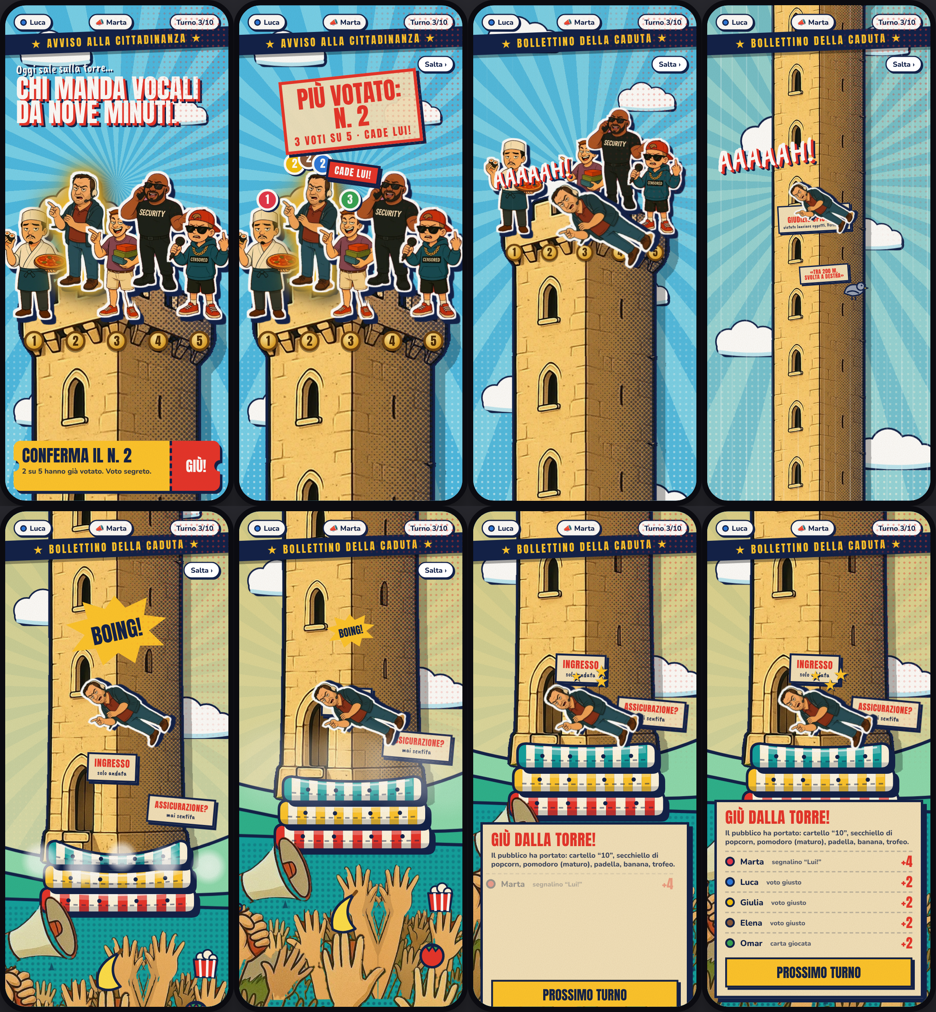
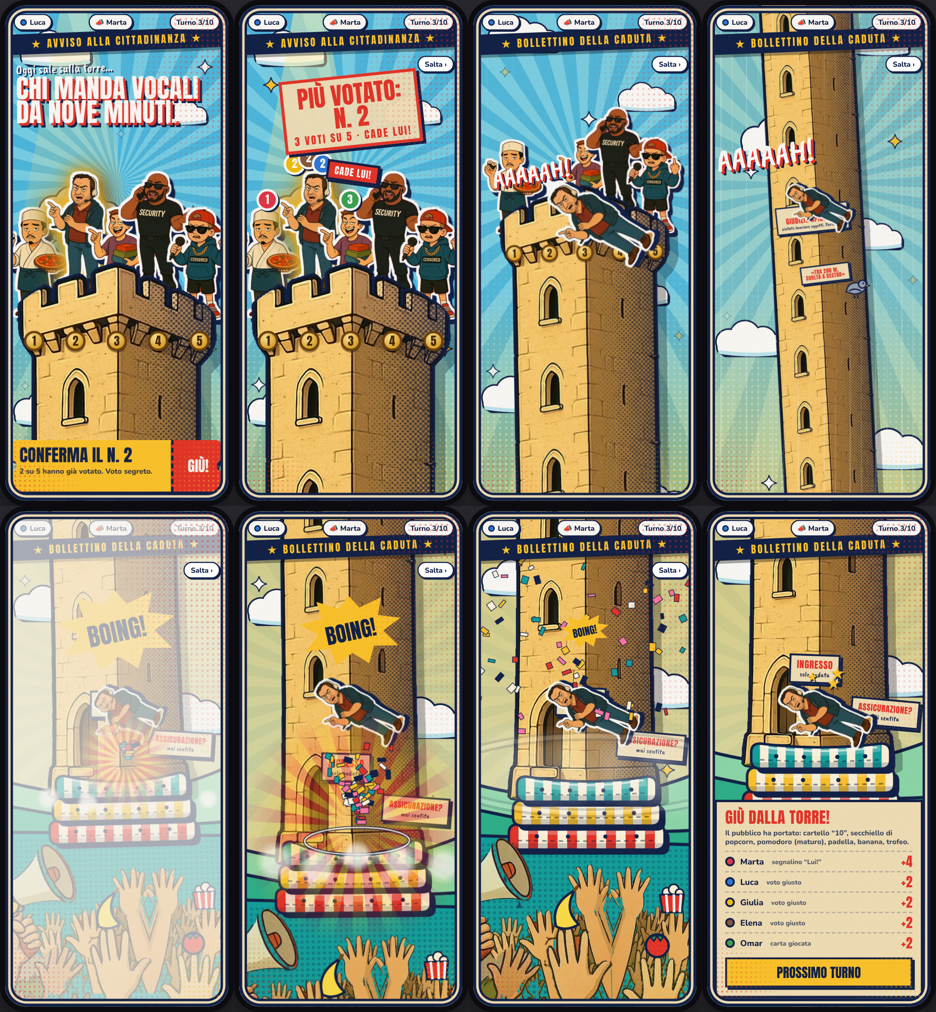
Caduta: personaggi dentro la cima, stile pop spettacolare (cornice, scintille, cono di luce, timbro, flash, esplosione, anelli, coriandoli, inclinazione)
Claude-Session: https://claude.ai/code/session_01RZhXLuhSivhirjYKeDZEsz

diff --git a/mockups/wow/dist/b4-artifact.html b/mockups/wow/dist/b4-artifact.html
@@ -9,6 +9,7 @@
 body{background:#2a2a30;min-height:100vh;display:flex;flex-wrap:wrap;gap:24px;justify-content:center;align-items:center;padding:20px max(16px,env(safe-area-inset-right,0px)) 20px max(16px,env(safe-area-inset-left,0px));font-family:Nunito,sans-serif;color:#fff}
 .phone{width:390px;height:844px;border-radius:44px;border:9px solid #0b0b10;position:relative;overflow:hidden;background:#5db4e6;box-shadow:0 30px 80px #000a;color:var(--navy);flex:none}
 .sky{position:absolute;inset:0;background:repeating-conic-gradient(from -4deg at 50% 36%,#79d3ee 0 6deg,#4fbce6 6deg 12deg)}
+.skyg{position:absolute;inset:0;background:linear-gradient(0deg,rgba(255,199,44,.5),transparent 42%)}
 .skyh{position:absolute;inset:0;background:radial-gradient(circle,#fff 0 26%,transparent 28%) 0 0/10px 10px;-webkit-mask-image:linear-gradient(0deg,#000,transparent 55%);mask-image:linear-gradient(0deg,#000,transparent 55%);opacity:.55}
 .sky2{position:absolute;inset:0;background:linear-gradient(180deg,#ffd36b,#ffe9a8);opacity:0}
 .far,.world{position:absolute;left:0;top:0;will-change:transform;transform-origin:0 0}
@@ -75,14 +76,31 @@ body{background:#2a2a30;min-height:100vh;display:flex;flex-wrap:wrap;gap:24px;ju
 .zoom .zb button{font:400 24px/1 Anton;text-transform:uppercase;padding:14px;border:3px solid var(--navy);box-shadow:4px 4px 0 var(--navy);cursor:pointer}
 .zoom .zb .ok{background:var(--mus);color:var(--navy)}.zoom .zb .no{background:#fff;color:var(--navy);font-size:18px;padding:10px}
 .panel .it{font:800 12px/1.3 Nunito;color:var(--navy);opacity:.8;margin:-2px 0 6px}
+
+.frame{position:absolute;inset:0;z-index:58;pointer-events:none;border-radius:35px;box-shadow:inset 0 0 0 5px #13224a,inset 0 0 0 9px #f4e3bd,inset 0 0 0 13px #13224a}
+.frame::before,.frame::after{content:"";position:absolute;width:120px;height:120px;background:radial-gradient(circle,#e8362b 0 26%,transparent 28%) 0 0/8px 8px;opacity:.7}
+.frame::before{left:13px;bottom:13px;-webkit-mask-image:radial-gradient(circle at 0 100%,#000,transparent 70%);mask-image:radial-gradient(circle at 0 100%,#000,transparent 70%)}
+.frame::after{right:13px;bottom:13px;background:radial-gradient(circle,#ffc72c 0 26%,transparent 28%) 0 0/8px 8px;-webkit-mask-image:radial-gradient(circle at 100% 100%,#000,transparent 70%);mask-image:radial-gradient(circle at 100% 100%,#000,transparent 70%)}
+.flash{position:absolute;inset:0;z-index:57;background:#fff;opacity:0;pointer-events:none}
+.ops{position:absolute;z-index:23;left:50%;width:200px;height:140px;margin-left:-100px;display:grid;place-items:center;opacity:0;font:400 40px/1 Anton;color:#fff;text-transform:uppercase;text-shadow:3px 3px 0 var(--red)}
+.ops::before{content:"";position:absolute;inset:0;background:var(--red);clip-path:polygon(50% 0,60% 18%,82% 6%,78% 30%,100% 36%,82% 52%,96% 74%,72% 72%,66% 96%,50% 80%,34% 96%,28% 72%,4% 74%,18% 52%,0 36%,22% 30%,18% 6%,40% 18%);filter:drop-shadow(5px 5px 0 var(--navy))}
+.ops span{position:relative;transform:rotate(6deg)}
+@keyframes pulse{0%,100%{transform:scale(1)}50%{transform:scale(1.035)}}
+@keyframes wob{0%,100%{transform:rotate(-.8deg)}50%{transform:rotate(.8deg)}}
+@keyframes tw{0%,100%{opacity:.25;transform:scale(.6)}50%{opacity:1;transform:scale(1.1)}}
+.ticket{animation:pulse 1.6s ease-in-out infinite}.hl{animation:wob 2.4s ease-in-out infinite}
+.sp{position:absolute;color:#fff;text-shadow:0 0 0 #13224a;font-size:20px;animation:tw 2.2s ease-in-out infinite}
+@media (prefers-reduced-motion:reduce){.ticket,.hl,.sp{animation:none}}
+.fx{pointer-events:none}
 </style>
 
 <div class="phone"><div id="vp" style="position:absolute;inset:0;overflow:hidden">
- <div class="sky"></div><div class="skyh"></div><div class="sky2" id="sky2"></div>
+ <div class="sky"></div><div class="skyg"></div><div class="skyh"></div><div class="sky2" id="sky2"></div>
  <div class="far" id="far"></div>
  <div class="world" id="world"></div>
  <div class="lines" id="lines"></div>
  <div class="hud">
+  <div class="frame"></div><div class="flash" id="flash"></div><div class="ops" id="ops"><span>Spinto!</span></div>
   <div class="zoom" id="zoom"><div class="zt">guardalo bene, poi decidi</div><div class="zc"><img id="zimg" alt=""><div class="zn" id="znum">2</div></div><div class="arr al" id="zl">‹</div><div class="arr ar" id="zr">›</div><div class="zb"><button class="ok" id="zok">Voto il n. 2</button><button class="no" id="zno">Torna sulla torre</button></div></div>
   <div class="top"><span><i style="background:#2f7be0"></i>Luca</span><span>📣 Marta</span><span>Turno 3/10</span></div>
   <div class="strip" id="strip">★ AVVISO ALLA CITTADINANZA ★</div>
@@ -123,7 +141,7 @@ land.innerHTML=`<defs><pattern id="ht" width="9" height="9" patternUnits="userSp
 ${Array.from({length:60},(_,i)=>`<path d="M${(i*23)%1400} ${320+(i*41)%340}l4 -13l4 13z" fill="#13224a" opacity=".6"/>`).join('')}`;
 W.appendChild(land);
 // ---- torre (regolamento, versione pop): i personaggi fanno capolino dietro i merli
-const TX=61,TY=420,PAD=8/1.5,TWW=391/1.5,THH=2506/1.5;
+const MT_=2034;const TX=61,TY=420,PAD=8/1.5,TWW=391/1.5,THH=2506/1.5;
 const tsh=document.createElement('img');tsh.src=window.IMGS.tower;tsh.style.cssText=`left:${TX-PAD+13}px;top:${TY-PAD+10}px;width:${TWW}px;height:${THH}px;z-index:3;pointer-events:none;filter:brightness(0) opacity(.28)`;W.appendChild(tsh);
 const tf=document.createElement('img');tf.src=window.IMGS.tower;tf.style.cssText=`left:${TX-PAD}px;top:${TY-PAD}px;width:${TWW}px;height:${THH}px;z-index:6;pointer-events:none`;W.appendChild(tf);
 add('Torre del<br>Giudizio Spicciolo<small>vietato lanciare oggetti. Persone sì.</small>',`left:${TX+30}px;top:1010px;z-index:7;transform:rotate(-3deg)`,'gag');
@@ -131,7 +149,7 @@ add(`<svg width="64" height="56" viewBox="0 0 64 56"><path d="M8 36q4-22 26-20q1
 add('«tra 200 m,<br>svolta a destra»',`left:${TX+80}px;top:1150px;z-index:7;transform:rotate(-4deg);font-size:12px`,'gag');
 add('Ingresso<small>solo andata</small>',`left:${TX+78}px;top:1895px;z-index:7;transform:rotate(2deg);font-size:15px`,'gag');
 // ---- personaggi: stanno dietro la corona (si vedono volti e busti), leggermente distanziati
-const CH=[{n:1,x:80,feet:TY+70,h:140,z:7},{n:2,x:133,feet:TY+34,h:150,z:7},{n:3,x:186,feet:TY+70,h:140,z:7},{n:4,x:239,feet:TY+34,h:150,z:7},{n:5,x:292,feet:TY+70,h:140,z:7}];
+const CH=[{n:1,x:80,feet:TY+70,h:140,z:5},{n:2,x:133,feet:TY+34,h:150,z:5},{n:3,x:186,feet:TY+70,h:140,z:5},{n:4,x:239,feet:TY+34,h:150,z:5},{n:5,x:292,feet:TY+70,h:140,z:5}];
 const ch={};
 CH.forEach(c=>{const img=document.createElement('img');img.className='cut stk pick';img.src=CUT('p05-i0'+c.n);img.style.cssText=`height:${c.h}px;z-index:${c.z}`;img.dataset.n=c.n;W.appendChild(img);ch[c.n]=img;
  add(c.n,`left:${c.x-13}px;top:${TY+86}px;z-index:9;pointer-events:none`,'bd')});
@@ -218,6 +236,17 @@ function placeObjects(seed){const r=mulberry(seed*7919+13);tiles.forEach(t=>t.og
  cand.sort(()=>r()-.5);
  keys.forEach((k,j)=>{const c=cand[j];if(!c)return;const o=document.createElementNS(NS,'g');o.setAttribute('transform',`translate(${c.p.x} ${c.p.y+4}) scale(${.45+c.p.sc*1.4})`);o.innerHTML=OBJ[k];c.t.og.appendChild(o)});
  const el=$('items');if(el)el.textContent='Il pubblico ha portato: '+keys.map(k=>NAMES[k]).join(', ')+'.'}
+
+// ---- effetti spettacolari
+const star4=(c)=>`<svg width="26" height="26" viewBox="-13 -13 26 26"><path d="M0 -12Q2 -2 12 0Q2 2 0 12Q-2 2 -12 0Q-2 -2 0 -12Z" fill="${c}" stroke="#13224a" stroke-width="1.6"/></svg>`;
+[[40,120],[320,90],[60,380],[300,330],[180,200],[20,620],[330,560],[250,760],[90,900],[310,980],[150,1100],[50,1250]].forEach(([x,y],i)=>{const e=document.createElement('div');e.className='sp';e.style.cssText=`left:${x}px;top:${y}px;animation-delay:${-i*.37}s`;e.innerHTML=star4(i%3?'#fff':'#ffc72c');F.appendChild(e)});
+const cone=add('',`left:0;top:${TY-330}px;width:190px;height:420px;z-index:4;pointer-events:none;mix-blend-mode:screen;background:linear-gradient(180deg,#fff7b8cc,#ffe27a55 55%,transparent);clip-path:polygon(40% 0,60% 0,100% 100%,0 100%)`);
+const burst=add('',`left:${196-210}px;top:${MT_-230}px;width:420px;height:420px;z-index:31;pointer-events:none;opacity:0;background:repeating-conic-gradient(#ffc72c 0 9deg,#e8362b 9deg 18deg);-webkit-mask-image:radial-gradient(circle,transparent 8%,#000 28%,transparent 72%);mask-image:radial-gradient(circle,transparent 8%,#000 28%,transparent 72%);border-radius:50%`);
+const rings=[0,1].map(i=>add(`<svg width="300" height="90" viewBox="-150 -45 300 90"><ellipse rx="140" ry="36" fill="none" stroke="#13224a" stroke-width="9"/><ellipse rx="140" ry="36" fill="none" stroke="#fff" stroke-width="4"/></svg>`,`left:${196-150}px;top:${MT_+2-45}px;z-index:31;pointer-events:none;opacity:0`));
+const CONF=[];(function(){let sd=3;const r=()=>(sd=(sd*16807)%2147483647)/2147483647;const g=document.createElementNS(NS,'svg');g.setAttribute('viewBox','-520 1500 1400 900');g.style.cssText='left:-520px;top:1500px;width:1400px;height:900px;z-index:33;pointer-events:none;overflow:visible';W.appendChild(g);
+ const cols=['#e8362b','#ffc72c','#14a3a1','#fff7e0','#ff7aa8','#13224a'];
+ for(let i=0;i<80;i++){const e=document.createElementNS(NS,'rect');const w=7+r()*8,h=4+r()*7;e.setAttribute('width',w);e.setAttribute('height',h);e.setAttribute('fill',cols[i%6]);e.setAttribute('stroke','#13224a');e.setAttribute('stroke-width','1');e.setAttribute('opacity','0');g.appendChild(e);CONF.push({e,vx:-300+r()*600,vy:-760+r()*420,rs:(r()-.5)*900,w,h,dl:r()*.25})}})();
+const back=x=>{x=Math.min(1,Math.max(0,x));const c=1.70158,c3=c+1;return 1+c3*Math.pow(x-1,3)+c*Math.pow(x-1,2)};
 // ---- polvere e stelle
 const puffs=[[30,2040],[96,2050],[300,2048],[230,2040],[160,2030]].map(([x,y])=>add('',`left:${x}px;top:${y}px;z-index:31`,'puff'));
 const stars=add('<b>★</b><b>★</b><b>★</b>','width:70px;height:30px;z-index:32;opacity:0','stars');
@@ -243,11 +272,12 @@ let RES=outcome();
 function render(T){
  const t=T-T_FALL;
  $('ticket').style.transform=`translateY(${sm(0,.4,T)*140}px)`;$('ticket').style.opacity=T>=.45?0:1;
- tokens.forEach(([e,n,i])=>{e.style.transform=`scale(${sm(.3+i*.18+(n-1)*.1,.6+i*.18+(n-1)*.1,T)})`;e.style.opacity=t>.3?1-sm(.3,.6,t):1});
+ tokens.forEach(([e,n,i])=>{e.style.transform=`scale(${back((T-(.3+i*.18+(n-1)*.1))/.35)})`;e.style.opacity=t>.3?1-sm(.3,.6,t):1});
  const lc=CH[LUI_ON-1];lui.style.left=(lc.x+22)+'px';lui.style.top=(lc.feet-lc.h-14)+'px';lui.style.transform=`rotate(8deg) scale(${sm(1.2,1.5,T)*(1-sm(.1,.5,t))})`;
- $('stamp').style.transform=`rotate(-6deg) scale(${sm(1.6,1.85,T)*(t>.3?1-sm(.3,.6,t):1)})`;
+ {const u=Math.min(1,Math.max(0,(T-1.6)/.25)),sk=(T>1.85&&T<2.1)?Math.sin(T*90)*4*(2.1-T)/.25:0;$('stamp').style.transform=`translate(${sk}px,${sk*.6}px) rotate(${-6+(1-u)*10}deg) scale(${(1+(1-u)*1.6)*u*(t>.3?1-sm(.3,.6,t):1)})`}
  $('hl').style.opacity=1-sm(1.5,1.8,T);
  const sus=t<0?sm(1.7,T_FALL,T):0;
+ {const cx_=CH[sel-1].x;cone.style.left=(cx_-95)+'px';cone.style.opacity=(t<.3?1:0)*(.55+.45*Math.sin(T*3));}
  CH.forEach(c=>{const im=ch[c.n];im.classList.toggle('sel',c.n===sel&&t<.4);if(c.n!==FN||t<0&&false){}
   if(c.n!==FN)im.style.transform=`rotate(${(c.n%2?-1:1)*sus*2.5}deg)`;im.style.transformOrigin='50% 100%'});
  const c=cardState(t),wob=t<0?Math.sin(T*28)*sus*3:0,h=fc.h,dp=dip(t);
@@ -256,7 +286,8 @@ function render(T){
  if(t<TS*.3){f.style.zIndex=fc.z;f.style.left=(fc.x-w/2)+'px';f.style.top=(startY()-h/2)+'px';f.style.transformOrigin='50% 50%';f.style.transform=`rotate(${wob}deg)`}
  else{f.style.zIndex=30;f.style.left=(c.x-w/2)+'px';f.style.top=(c.y-h/2)+'px';f.style.transformOrigin='50% 50%';f.style.transform=`rotate(${c.r}deg) scale(${(c.sx||1)*c.k},${(c.sy||1)*c.k})`}
  const cm=cam(t),sh=t>TI?Math.sin((t-TI)*50)*Math.exp(-(t-TI)*7)*7:0;
- W.style.transform=`translate(${sh}px,${sh}px) scale(${cm.s}) translate(${-cm.cx}px,${-cm.cy}px)`;F.style.transform=`translateY(${-(cm.cy-CY0)*cm.s*.35}px)`;
+ const dutch=-3*sm(.5,1.3,t)*(1-sm(TI-.3,TI+.4,t));const shk=(T>1.85&&T<2.1)?Math.sin(T*80)*3:0;
+ W.style.transform=`translate(${sh+shk}px,${sh}px) translate(186px,413px) rotate(${dutch}deg) translate(-186px,-413px) scale(${cm.s}) translate(${-cm.cx}px,${-cm.cy}px)`;F.style.transform=`translateY(${-(cm.cy-CY0)*cm.s*.35}px)`;
  $('sky2').style.opacity=Math.min(1,Math.max(0,(cm.cy-CY0)/1500))*.75;
  mats.forEach((m,i)=>m.update(dp*[.25,.55,1][i],dp*[.08,.14,.22][i]));
   tiles.forEach(a=>{const j=t>TI+.1?Math.abs(Math.sin((t-TI)*9+a.ph))*(a.layer==2?20:a.layer==1?14:8)*Math.min(1,(t-TI)/.4)*(t>TI+2.6?0:1):Math.sin(T*1.6+a.ph)*(a.layer+1)*1.4;const wv=t>TI+.1?Math.sin((t-TI)*11+a.ph)*.05:Math.sin(T*1.3+a.ph)*.02;a.g.setAttribute('transform',`translate(0 ${-j}) rotate(${wv*57.3} ${a.cx} ${a.base})`)});
@@ -266,6 +297,12 @@ function render(T){
  const sy=(c.y-cm.cy)*cm.s;
  const ca=$('aaah');ca.style.opacity=(t>.55&&t<TI-.05)?1:0;ca.style.left='34px';ca.style.top=(sy-110)+'px';ca.style.transform=`rotate(${-8+Math.sin(t*20)*3}deg) scale(${1+v*.5})`;
  const bo=$('boing'),d=t-TI;bo.style.opacity=(d>0&&d<1)?1:0;bo.style.top=(sy-215)+'px';bo.style.transform=`scale(${d>0?(.95-.15*sm(0,.2,d))*(1-sm(.6,1,d)):0}) rotate(-4deg)`;
+ {const d2=t-TI;
+  $('flash').style.opacity=d2>0&&d2<.2?.85*(1-d2/.2):0;
+  burst.style.opacity=d2>0&&d2<.45?(1-d2/.45)*.95:0;burst.style.transform=`scale(${.25+Math.max(0,d2)*3.2}) rotate(${d2*60}deg)`;
+  rings.forEach((rg,i)=>{const q=d2-.05-i*.18;rg.style.opacity=q>0&&q<.7?(1-q/.7)*.95:0;rg.style.transform=`scale(${.2+Math.max(0,q)*2.6})`});
+  CONF.forEach(c=>{const q=d2-c.dl;if(q<0||q>2.6){c.e.setAttribute('opacity','0');return}const x=196+c.vx*q,y=MT_-30+c.vy*q+.5*800*q*q;c.e.setAttribute('opacity',String(1-sm(1.9,2.6,q)));c.e.setAttribute('transform',`translate(${x} ${y}) rotate(${c.rs*q})`)});
+  const op=$('ops');op.style.opacity=(t>.12&&t<.8)?1:0;op.style.top=((c.y-cm.cy)*cm.s-120)+'px';op.style.left='62%';op.style.transform=`scale(${back((t-.12)/.2)*(1-sm(.6,.8,t))}) rotate(${Math.sin(t*30)*3}deg)`}
  $('strip').textContent=t>.4?'★ BOLLETTINO DELLA CADUTA ★':'★ AVVISO ALLA CITTADINANZA ★';
  const pt=t-(TI+1.0);$('panel').style.transform=`translateY(${(1-sm(0,.5,pt))*120}%)`;
  document.querySelectorAll('.row').forEach((r,i)=>{const s=sm(.3+i*.18,.55+i*.18,pt);r.style.opacity=s;r.style.transform=`translateX(${(1-s)*-14}px)`});

diff --git a/mockups/wow/b4-caduta.html b/mockups/wow/b4-caduta.html
@@ -8,6 +8,7 @@
 body{background:#2a2a30;min-height:100vh;display:flex;flex-wrap:wrap;gap:24px;justify-content:center;align-items:center;padding:20px;font-family:Nunito,sans-serif;color:#fff}
 .phone{width:390px;height:844px;border-radius:44px;border:9px solid #0b0b10;position:relative;overflow:hidden;background:#5db4e6;box-shadow:0 30px 80px #000a;color:var(--navy);flex:none}
 .sky{position:absolute;inset:0;background:repeating-conic-gradient(from -4deg at 50% 36%,#79d3ee 0 6deg,#4fbce6 6deg 12deg)}
+.skyg{position:absolute;inset:0;background:linear-gradient(0deg,rgba(255,199,44,.5),transparent 42%)}
 .skyh{position:absolute;inset:0;background:radial-gradient(circle,#fff 0 26%,transparent 28%) 0 0/10px 10px;-webkit-mask-image:linear-gradient(0deg,#000,transparent 55%);mask-image:linear-gradient(0deg,#000,transparent 55%);opacity:.55}
 .sky2{position:absolute;inset:0;background:linear-gradient(180deg,#ffd36b,#ffe9a8);opacity:0}
 .far,.world{position:absolute;left:0;top:0;will-change:transform;transform-origin:0 0}
@@ -74,13 +75,30 @@ body{background:#2a2a30;min-height:100vh;display:flex;flex-wrap:wrap;gap:24px;ju
 .zoom .zb button{font:400 24px/1 Anton;text-transform:uppercase;padding:14px;border:3px solid var(--navy);box-shadow:4px 4px 0 var(--navy);cursor:pointer}
 .zoom .zb .ok{background:var(--mus);color:var(--navy)}.zoom .zb .no{background:#fff;color:var(--navy);font-size:18px;padding:10px}
 .panel .it{font:800 12px/1.3 Nunito;color:var(--navy);opacity:.8;margin:-2px 0 6px}
+
+.frame{position:absolute;inset:0;z-index:58;pointer-events:none;border-radius:35px;box-shadow:inset 0 0 0 5px #13224a,inset 0 0 0 9px #f4e3bd,inset 0 0 0 13px #13224a}
+.frame::before,.frame::after{content:"";position:absolute;width:120px;height:120px;background:radial-gradient(circle,#e8362b 0 26%,transparent 28%) 0 0/8px 8px;opacity:.7}
+.frame::before{left:13px;bottom:13px;-webkit-mask-image:radial-gradient(circle at 0 100%,#000,transparent 70%);mask-image:radial-gradient(circle at 0 100%,#000,transparent 70%)}
+.frame::after{right:13px;bottom:13px;background:radial-gradient(circle,#ffc72c 0 26%,transparent 28%) 0 0/8px 8px;-webkit-mask-image:radial-gradient(circle at 100% 100%,#000,transparent 70%);mask-image:radial-gradient(circle at 100% 100%,#000,transparent 70%)}
+.flash{position:absolute;inset:0;z-index:57;background:#fff;opacity:0;pointer-events:none}
+.ops{position:absolute;z-index:23;left:50%;width:200px;height:140px;margin-left:-100px;display:grid;place-items:center;opacity:0;font:400 40px/1 Anton;color:#fff;text-transform:uppercase;text-shadow:3px 3px 0 var(--red)}
+.ops::before{content:"";position:absolute;inset:0;background:var(--red);clip-path:polygon(50% 0,60% 18%,82% 6%,78% 30%,100% 36%,82% 52%,96% 74%,72% 72%,66% 96%,50% 80%,34% 96%,28% 72%,4% 74%,18% 52%,0 36%,22% 30%,18% 6%,40% 18%);filter:drop-shadow(5px 5px 0 var(--navy))}
+.ops span{position:relative;transform:rotate(6deg)}
+@keyframes pulse{0%,100%{transform:scale(1)}50%{transform:scale(1.035)}}
+@keyframes wob{0%,100%{transform:rotate(-.8deg)}50%{transform:rotate(.8deg)}}
+@keyframes tw{0%,100%{opacity:.25;transform:scale(.6)}50%{opacity:1;transform:scale(1.1)}}
+.ticket{animation:pulse 1.6s ease-in-out infinite}.hl{animation:wob 2.4s ease-in-out infinite}
+.sp{position:absolute;color:#fff;text-shadow:0 0 0 #13224a;font-size:20px;animation:tw 2.2s ease-in-out infinite}
+@media (prefers-reduced-motion:reduce){.ticket,.hl,.sp{animation:none}}
+.fx{pointer-events:none}
 </style></head><body>
 <div class="phone"><div id="vp" style="position:absolute;inset:0;overflow:hidden">
- <div class="sky"></div><div class="skyh"></div><div class="sky2" id="sky2"></div>
+ <div class="sky"></div><div class="skyg"></div><div class="skyh"></div><div class="sky2" id="sky2"></div>
  <div class="far" id="far"></div>
  <div class="world" id="world"></div>
  <div class="lines" id="lines"></div>
  <div class="hud">
+  <div class="frame"></div><div class="flash" id="flash"></div><div class="ops" id="ops"><span>Spinto!</span></div>
   <div class="zoom" id="zoom"><div class="zt">guardalo bene, poi decidi</div><div class="zc"><img id="zimg" alt=""><div class="zn" id="znum">2</div></div><div class="arr al" id="zl">‹</div><div class="arr ar" id="zr">›</div><div class="zb"><button class="ok" id="zok">Voto il n. 2</button><button class="no" id="zno">Torna sulla torre</button></div></div>
   <div class="top"><span><i style="background:#2f7be0"></i>Luca</span><span>📣 Marta</span><span>Turno 3/10</span></div>
   <div class="strip" id="strip">★ AVVISO ALLA CITTADINANZA ★</div>
@@ -120,7 +138,7 @@ land.innerHTML=`<defs><pattern id="ht" width="9" height="9" patternUnits="userSp
 ${Array.from({length:60},(_,i)=>`<path d="M${(i*23)%1400} ${320+(i*41)%340}l4 -13l4 13z" fill="#13224a" opacity=".6"/>`).join('')}`;
 W.appendChild(land);
 // ---- torre (regolamento, versione pop): i personaggi fanno capolino dietro i merli
-const TX=61,TY=420,PAD=8/1.5,TWW=391/1.5,THH=2506/1.5;
+const MT_=2034;const TX=61,TY=420,PAD=8/1.5,TWW=391/1.5,THH=2506/1.5;
 const tsh=document.createElement('img');tsh.src='../../public/scene/tower_pop.webp';tsh.style.cssText=`left:${TX-PAD+13}px;top:${TY-PAD+10}px;width:${TWW}px;height:${THH}px;z-index:3;pointer-events:none;filter:brightness(0) opacity(.28)`;W.appendChild(tsh);
 const tf=document.createElement('img');tf.src='../../public/scene/tower_pop.webp';tf.style.cssText=`left:${TX-PAD}px;top:${TY-PAD}px;width:${TWW}px;height:${THH}px;z-index:6;pointer-events:none`;W.appendChild(tf);
 add('Torre del<br>Giudizio Spicciolo<small>vietato lanciare oggetti. Persone sì.</small>',`left:${TX+30}px;top:1010px;z-index:7;transform:rotate(-3deg)`,'gag');
@@ -128,7 +146,7 @@ add(`<svg width="64" height="56" viewBox="0 0 64 56"><path d="M8 36q4-22 26-20q1
 add('«tra 200 m,<br>svolta a destra»',`left:${TX+80}px;top:1150px;z-index:7;transform:rotate(-4deg);font-size:12px`,'gag');
 add('Ingresso<small>solo andata</small>',`left:${TX+78}px;top:1895px;z-index:7;transform:rotate(2deg);font-size:15px`,'gag');
 // ---- personaggi: stanno dietro la corona (si vedono volti e busti), leggermente distanziati
-const CH=[{n:1,x:80,feet:TY+70,h:140,z:7},{n:2,x:133,feet:TY+34,h:150,z:7},{n:3,x:186,feet:TY+70,h:140,z:7},{n:4,x:239,feet:TY+34,h:150,z:7},{n:5,x:292,feet:TY+70,h:140,z:7}];
+const CH=[{n:1,x:80,feet:TY+70,h:140,z:5},{n:2,x:133,feet:TY+34,h:150,z:5},{n:3,x:186,feet:TY+70,h:140,z:5},{n:4,x:239,feet:TY+34,h:150,z:5},{n:5,x:292,feet:TY+70,h:140,z:5}];
 const ch={};
 CH.forEach(c=>{const img=document.createElement('img');img.className='cut stk pick';img.src=CUT('p05-i0'+c.n);img.style.cssText=`height:${c.h}px;z-index:${c.z}`;img.dataset.n=c.n;W.appendChild(img);ch[c.n]=img;
  add(c.n,`left:${c.x-13}px;top:${TY+86}px;z-index:9;pointer-events:none`,'bd')});
@@ -215,6 +233,17 @@ function placeObjects(seed){const r=mulberry(seed*7919+13);tiles.forEach(t=>t.og
  cand.sort(()=>r()-.5);
  keys.forEach((k,j)=>{const c=cand[j];if(!c)return;const o=document.createElementNS(NS,'g');o.setAttribute('transform',`translate(${c.p.x} ${c.p.y+4}) scale(${.45+c.p.sc*1.4})`);o.innerHTML=OBJ[k];c.t.og.appendChild(o)});
  const el=$('items');if(el)el.textContent='Il pubblico ha portato: '+keys.map(k=>NAMES[k]).join(', ')+'.'}
+
+// ---- effetti spettacolari
+const star4=(c)=>`<svg width="26" height="26" viewBox="-13 -13 26 26"><path d="M0 -12Q2 -2 12 0Q2 2 0 12Q-2 2 -12 0Q-2 -2 0 -12Z" fill="${c}" stroke="#13224a" stroke-width="1.6"/></svg>`;
+[[40,120],[320,90],[60,380],[300,330],[180,200],[20,620],[330,560],[250,760],[90,900],[310,980],[150,1100],[50,1250]].forEach(([x,y],i)=>{const e=document.createElement('div');e.className='sp';e.style.cssText=`left:${x}px;top:${y}px;animation-delay:${-i*.37}s`;e.innerHTML=star4(i%3?'#fff':'#ffc72c');F.appendChild(e)});
+const cone=add('',`left:0;top:${TY-330}px;width:190px;height:420px;z-index:4;pointer-events:none;mix-blend-mode:screen;background:linear-gradient(180deg,#fff7b8cc,#ffe27a55 55%,transparent);clip-path:polygon(40% 0,60% 0,100% 100%,0 100%)`);
+const burst=add('',`left:${196-210}px;top:${MT_-230}px;width:420px;height:420px;z-index:31;pointer-events:none;opacity:0;background:repeating-conic-gradient(#ffc72c 0 9deg,#e8362b 9deg 18deg);-webkit-mask-image:radial-gradient(circle,transparent 8%,#000 28%,transparent 72%);mask-image:radial-gradient(circle,transparent 8%,#000 28%,transparent 72%);border-radius:50%`);
+const rings=[0,1].map(i=>add(`<svg width="300" height="90" viewBox="-150 -45 300 90"><ellipse rx="140" ry="36" fill="none" stroke="#13224a" stroke-width="9"/><ellipse rx="140" ry="36" fill="none" stroke="#fff" stroke-width="4"/></svg>`,`left:${196-150}px;top:${MT_+2-45}px;z-index:31;pointer-events:none;opacity:0`));
+const CONF=[];(function(){let sd=3;const r=()=>(sd=(sd*16807)%2147483647)/2147483647;const g=document.createElementNS(NS,'svg');g.setAttribute('viewBox','-520 1500 1400 900');g.style.cssText='left:-520px;top:1500px;width:1400px;height:900px;z-index:33;pointer-events:none;overflow:visible';W.appendChild(g);
+ const cols=['#e8362b','#ffc72c','#14a3a1','#fff7e0','#ff7aa8','#13224a'];
+ for(let i=0;i<80;i++){const e=document.createElementNS(NS,'rect');const w=7+r()*8,h=4+r()*7;e.setAttribute('width',w);e.setAttribute('height',h);e.setAttribute('fill',cols[i%6]);e.setAttribute('stroke','#13224a');e.setAttribute('stroke-width','1');e.setAttribute('opacity','0');g.appendChild(e);CONF.push({e,vx:-300+r()*600,vy:-760+r()*420,rs:(r()-.5)*900,w,h,dl:r()*.25})}})();
+const back=x=>{x=Math.min(1,Math.max(0,x));const c=1.70158,c3=c+1;return 1+c3*Math.pow(x-1,3)+c*Math.pow(x-1,2)};
 // ---- polvere e stelle
 const puffs=[[30,2040],[96,2050],[300,2048],[230,2040],[160,2030]].map(([x,y])=>add('',`left:${x}px;top:${y}px;z-index:31`,'puff'));
 const stars=add('<b>★</b><b>★</b><b>★</b>','width:70px;height:30px;z-index:32;opacity:0','stars');
@@ -240,11 +269,12 @@ let RES=outcome();
 function render(T){
  const t=T-T_FALL;
  $('ticket').style.transform=`translateY(${sm(0,.4,T)*140}px)`;$('ticket').style.opacity=T>=.45?0:1;
- tokens.forEach(([e,n,i])=>{e.style.transform=`scale(${sm(.3+i*.18+(n-1)*.1,.6+i*.18+(n-1)*.1,T)})`;e.style.opacity=t>.3?1-sm(.3,.6,t):1});
+ tokens.forEach(([e,n,i])=>{e.style.transform=`scale(${back((T-(.3+i*.18+(n-1)*.1))/.35)})`;e.style.opacity=t>.3?1-sm(.3,.6,t):1});
  const lc=CH[LUI_ON-1];lui.style.left=(lc.x+22)+'px';lui.style.top=(lc.feet-lc.h-14)+'px';lui.style.transform=`rotate(8deg) scale(${sm(1.2,1.5,T)*(1-sm(.1,.5,t))})`;
- $('stamp').style.transform=`rotate(-6deg) scale(${sm(1.6,1.85,T)*(t>.3?1-sm(.3,.6,t):1)})`;
+ {const u=Math.min(1,Math.max(0,(T-1.6)/.25)),sk=(T>1.85&&T<2.1)?Math.sin(T*90)*4*(2.1-T)/.25:0;$('stamp').style.transform=`translate(${sk}px,${sk*.6}px) rotate(${-6+(1-u)*10}deg) scale(${(1+(1-u)*1.6)*u*(t>.3?1-sm(.3,.6,t):1)})`}
  $('hl').style.opacity=1-sm(1.5,1.8,T);
  const sus=t<0?sm(1.7,T_FALL,T):0;
+ {const cx_=CH[sel-1].x;cone.style.left=(cx_-95)+'px';cone.style.opacity=(t<.3?1:0)*(.55+.45*Math.sin(T*3));}
  CH.forEach(c=>{const im=ch[c.n];im.classList.toggle('sel',c.n===sel&&t<.4);if(c.n!==FN||t<0&&false){}
   if(c.n!==FN)im.style.transform=`rotate(${(c.n%2?-1:1)*sus*2.5}deg)`;im.style.transformOrigin='50% 100%'});
  const c=cardState(t),wob=t<0?Math.sin(T*28)*sus*3:0,h=fc.h,dp=dip(t);
@@ -253,7 +283,8 @@ function render(T){
  if(t<TS*.3){f.style.zIndex=fc.z;f.style.left=(fc.x-w/2)+'px';f.style.top=(startY()-h/2)+'px';f.style.transformOrigin='50% 50%';f.style.transform=`rotate(${wob}deg)`}
  else{f.style.zIndex=30;f.style.left=(c.x-w/2)+'px';f.style.top=(c.y-h/2)+'px';f.style.transformOrigin='50% 50%';f.style.transform=`rotate(${c.r}deg) scale(${(c.sx||1)*c.k},${(c.sy||1)*c.k})`}
  const cm=cam(t),sh=t>TI?Math.sin((t-TI)*50)*Math.exp(-(t-TI)*7)*7:0;
- W.style.transform=`translate(${sh}px,${sh}px) scale(${cm.s}) translate(${-cm.cx}px,${-cm.cy}px)`;F.style.transform=`translateY(${-(cm.cy-CY0)*cm.s*.35}px)`;
+ const dutch=-3*sm(.5,1.3,t)*(1-sm(TI-.3,TI+.4,t));const shk=(T>1.85&&T<2.1)?Math.sin(T*80)*3:0;
+ W.style.transform=`translate(${sh+shk}px,${sh}px) translate(186px,413px) rotate(${dutch}deg) translate(-186px,-413px) scale(${cm.s}) translate(${-cm.cx}px,${-cm.cy}px)`;F.style.transform=`translateY(${-(cm.cy-CY0)*cm.s*.35}px)`;
  $('sky2').style.opacity=Math.min(1,Math.max(0,(cm.cy-CY0)/1500))*.75;
  mats.forEach((m,i)=>m.update(dp*[.25,.55,1][i],dp*[.08,.14,.22][i]));
   tiles.forEach(a=>{const j=t>TI+.1?Math.abs(Math.sin((t-TI)*9+a.ph))*(a.layer==2?20:a.layer==1?14:8)*Math.min(1,(t-TI)/.4)*(t>TI+2.6?0:1):Math.sin(T*1.6+a.ph)*(a.layer+1)*1.4;const wv=t>TI+.1?Math.sin((t-TI)*11+a.ph)*.05:Math.sin(T*1.3+a.ph)*.02;a.g.setAttribute('transform',`translate(0 ${-j}) rotate(${wv*57.3} ${a.cx} ${a.base})`)});
@@ -263,6 +294,12 @@ function render(T){
  const sy=(c.y-cm.cy)*cm.s;
  const ca=$('aaah');ca.style.opacity=(t>.55&&t<TI-.05)?1:0;ca.style.left='34px';ca.style.top=(sy-110)+'px';ca.style.transform=`rotate(${-8+Math.sin(t*20)*3}deg) scale(${1+v*.5})`;
  const bo=$('boing'),d=t-TI;bo.style.opacity=(d>0&&d<1)?1:0;bo.style.top=(sy-215)+'px';bo.style.transform=`scale(${d>0?(.95-.15*sm(0,.2,d))*(1-sm(.6,1,d)):0}) rotate(-4deg)`;
+ {const d2=t-TI;
+  $('flash').style.opacity=d2>0&&d2<.2?.85*(1-d2/.2):0;
+  burst.style.opacity=d2>0&&d2<.45?(1-d2/.45)*.95:0;burst.style.transform=`scale(${.25+Math.max(0,d2)*3.2}) rotate(${d2*60}deg)`;
+  rings.forEach((rg,i)=>{const q=d2-.05-i*.18;rg.style.opacity=q>0&&q<.7?(1-q/.7)*.95:0;rg.style.transform=`scale(${.2+Math.max(0,q)*2.6})`});
+  CONF.forEach(c=>{const q=d2-c.dl;if(q<0||q>2.6){c.e.setAttribute('opacity','0');return}const x=196+c.vx*q,y=MT_-30+c.vy*q+.5*800*q*q;c.e.setAttribute('opacity',String(1-sm(1.9,2.6,q)));c.e.setAttribute('transform',`translate(${x} ${y}) rotate(${c.rs*q})`)});
+  const op=$('ops');op.style.opacity=(t>.12&&t<.8)?1:0;op.style.top=((c.y-cm.cy)*cm.s-120)+'px';op.style.left='62%';op.style.transform=`scale(${back((t-.12)/.2)*(1-sm(.6,.8,t))}) rotate(${Math.sin(t*30)*3}deg)`}
  $('strip').textContent=t>.4?'★ BOLLETTINO DELLA CADUTA ★':'★ AVVISO ALLA CITTADINANZA ★';
  const pt=t-(TI+1.0);$('panel').style.transform=`translateY(${(1-sm(0,.5,pt))*120}%)`;
  document.querySelectorAll('.row').forEach((r,i)=>{const s=sm(.3+i*.18,.55+i*.18,pt);r.style.opacity=s;r.style.transform=`translateX(${(1-s)*-14}px)`});
